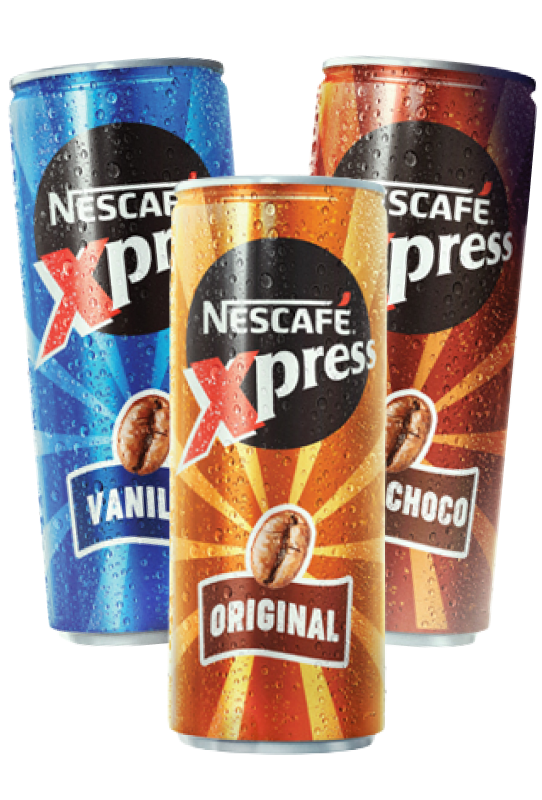
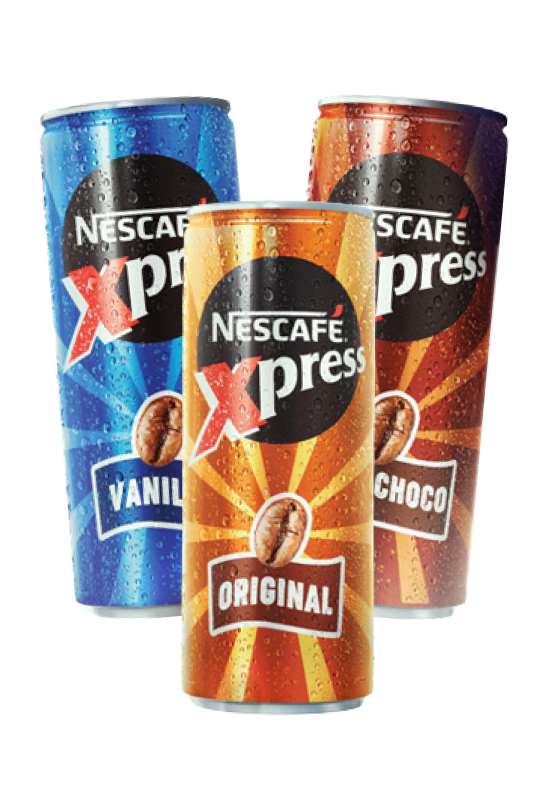
somes changes

diff --git a/styles/04-components/_homepage.scss b/styles/04-components/_homepage.scss
@@ -11,8 +11,7 @@
         max-width: 100px;
     }
     &__img {
-        width: 40%;
-        height: 80%;
+        width: 35%;
         object-fit: cover;
     }
 }
